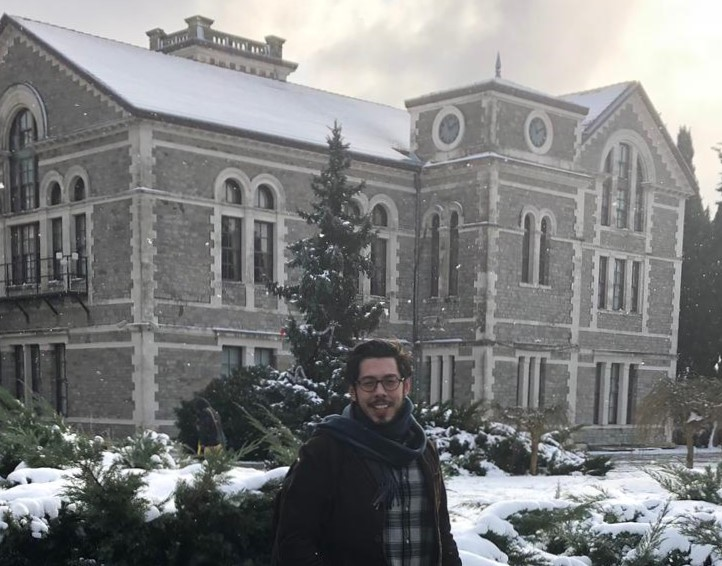
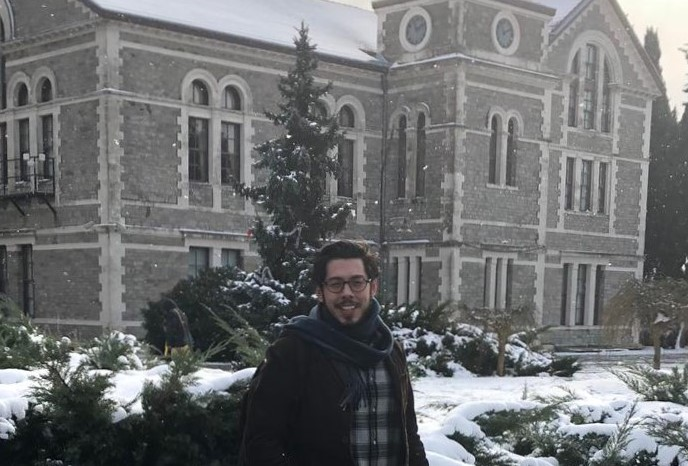
index.html

diff --git a/index.html b/index.html
@@ -35,7 +35,7 @@ try {
 <h1>Oğuz Gürerk</h1>
 <h2>General Information </h2>
 <table class="imgtable"><tr><td>
-<img src="profile_pic.jpg" alt="PP" width="330px" height="320px" />&nbsp;</td>
+<img src="profile_pic.jpg" alt="PP" width="350px" height="320px" />&nbsp;</td>
 <td align="left"><p>Oğuz Gürerk<br />
 <a href="http://www.math.boun.edu.tr/">Department of Mathematics</a> and <a href="http://econ.boun.edu.tr">Department of Economics</a><br />
 <a href="http://www.boun.edu.tr/en-US/Index">Bogazici University</a><br />
